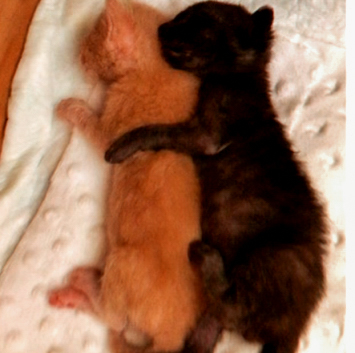
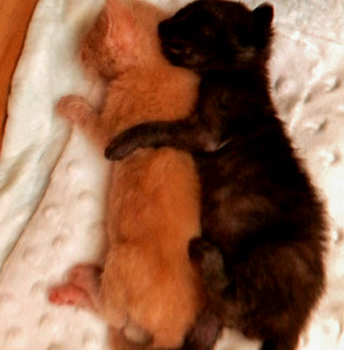
added border style

diff --git a/app/styles/globals.css b/app/styles/globals.css
@@ -13,3 +13,9 @@
   font-style: normal;
   font-display: swap;
 }
+
+
+img {
+  border-radius: 20px;
+  border: 3px solid black;
+}
